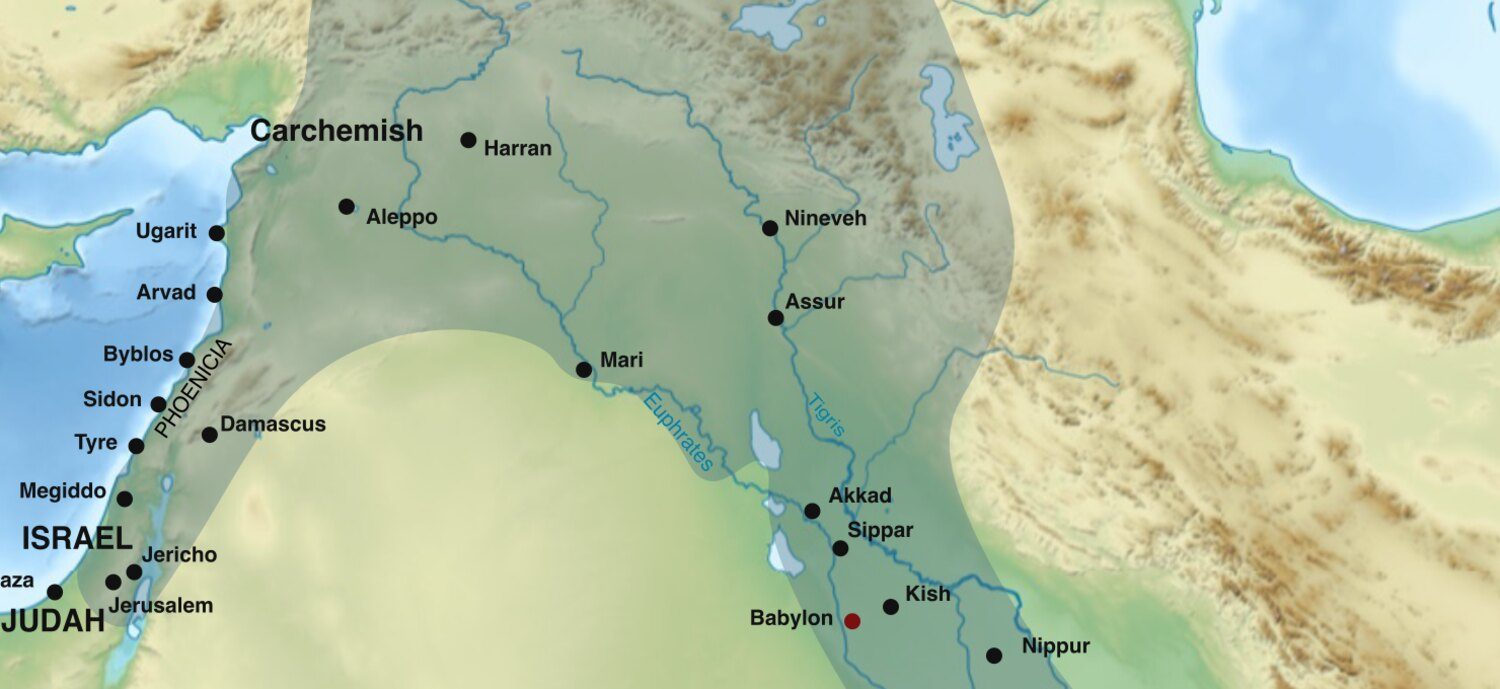
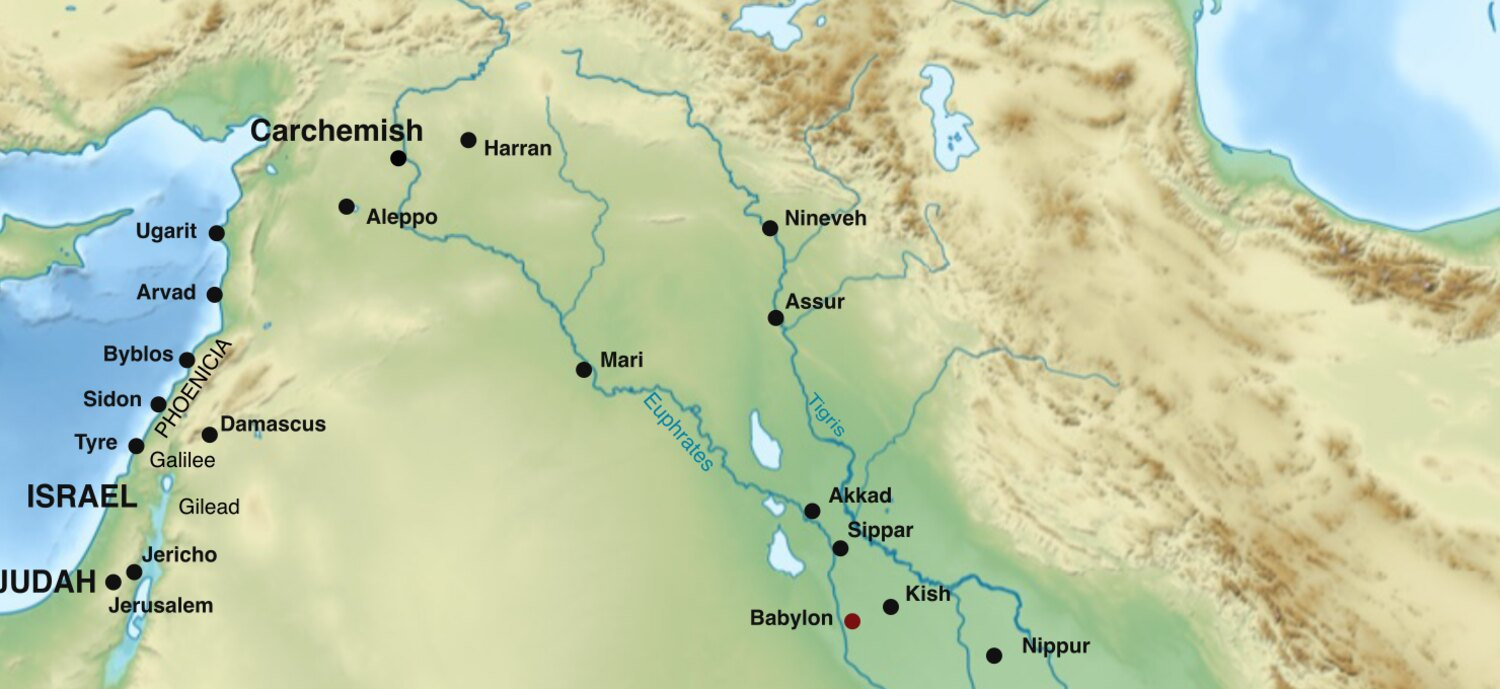
Assyria 07: re-render dispersal base with Galilee & Gilead labeled
Kymber added Galilee and Gilead to the SVG; re-rendered the widget base from
Assyria-Galilee-Gilead.svg (strip list for the re-export: cls-4,8,11,16,17 --
region labels/fills + the anachronistic 605 BC marker). The 734 BC 'first
bite' arrow now originates from the Galilee/Gilead area.

diff --git a/content/culture/ancient/assyria/07-the-fall-of-the-north.md b/content/culture/ancient/assyria/07-the-fall-of-the-north.md
@@ -97,7 +97,7 @@ draft: true
     <text class="asd-lbl" x="122" y="556">Samaria</text>
 
     <!-- per-step arrow groups -->
-    <g id="asd-s0"><path class="asd-arrow" marker-end="url(#asd-ah)" d="M150,528 Q430,335 700,248"/></g>
+    <g id="asd-s0"><path class="asd-arrow" marker-end="url(#asd-ah)" d="M168,492 Q440,330 700,248"/></g>
     <g id="asd-s1"><path class="asd-arrow" marker-end="url(#asd-ah)" d="M116,556 Q430,342 758,232"/></g>
     <g id="asd-s2">
       <path class="asd-arrow" marker-end="url(#asd-ah)" d="M758,236 Q652,180 590,164"/>
